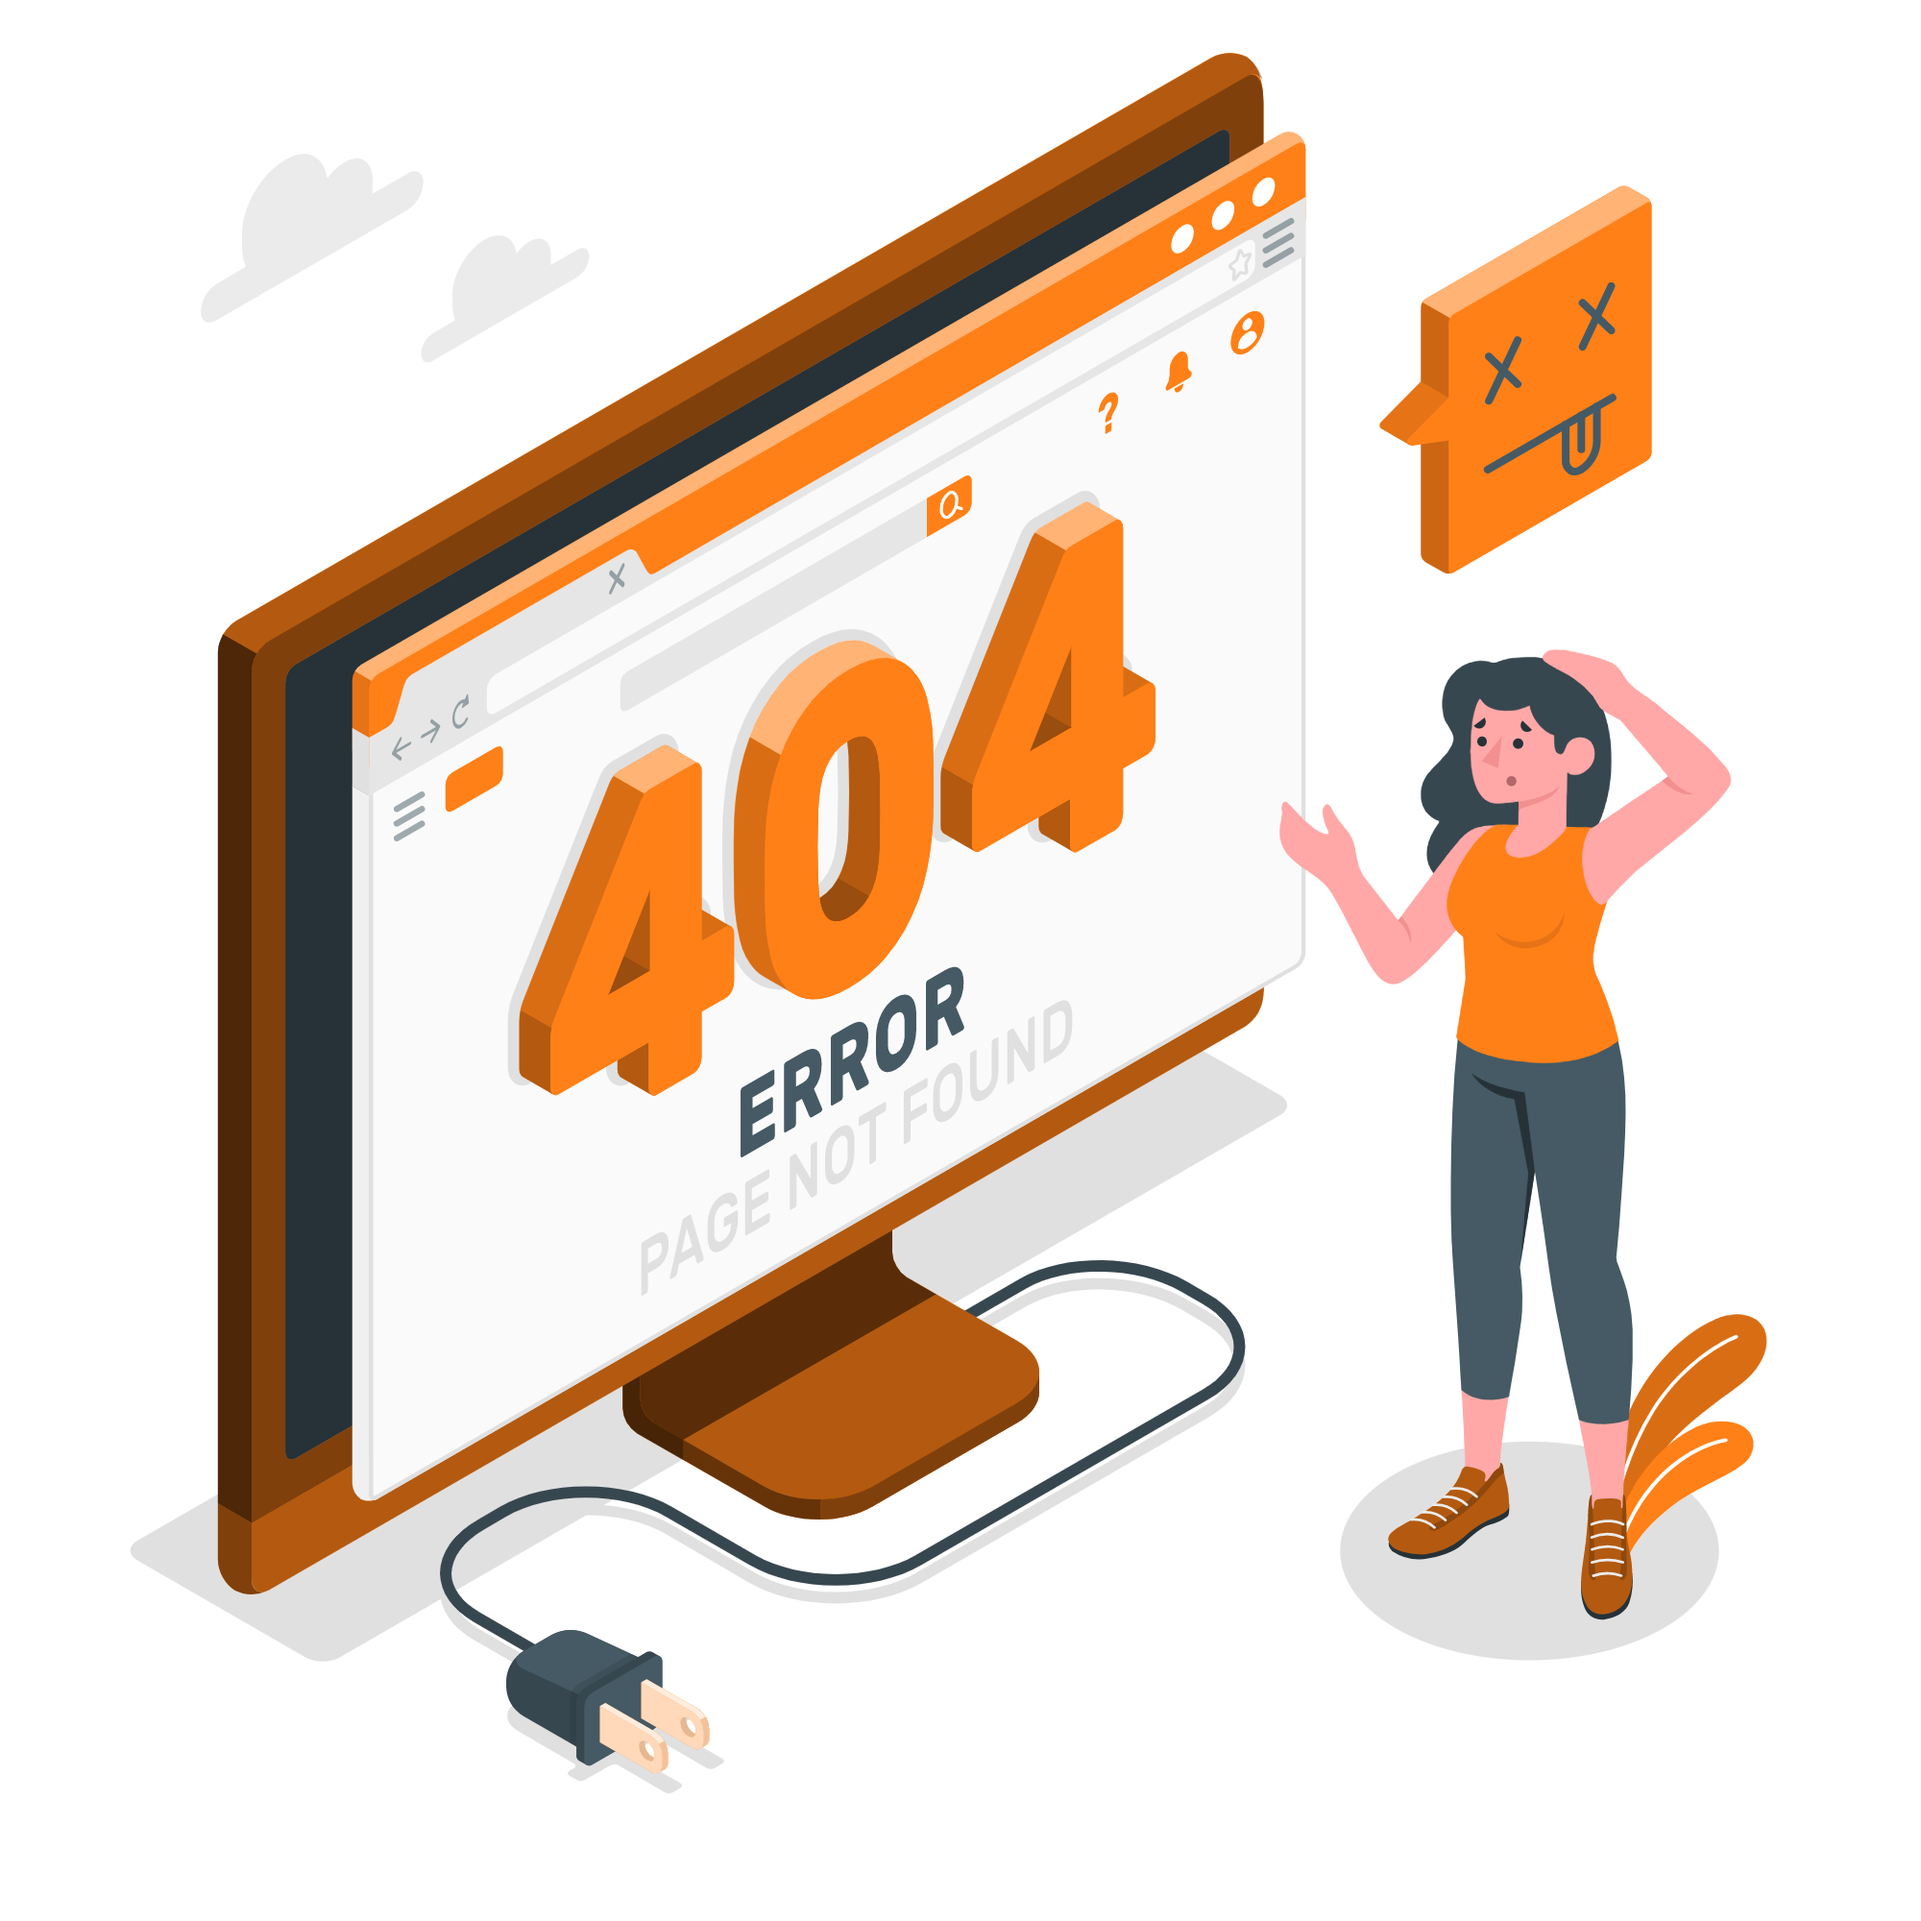
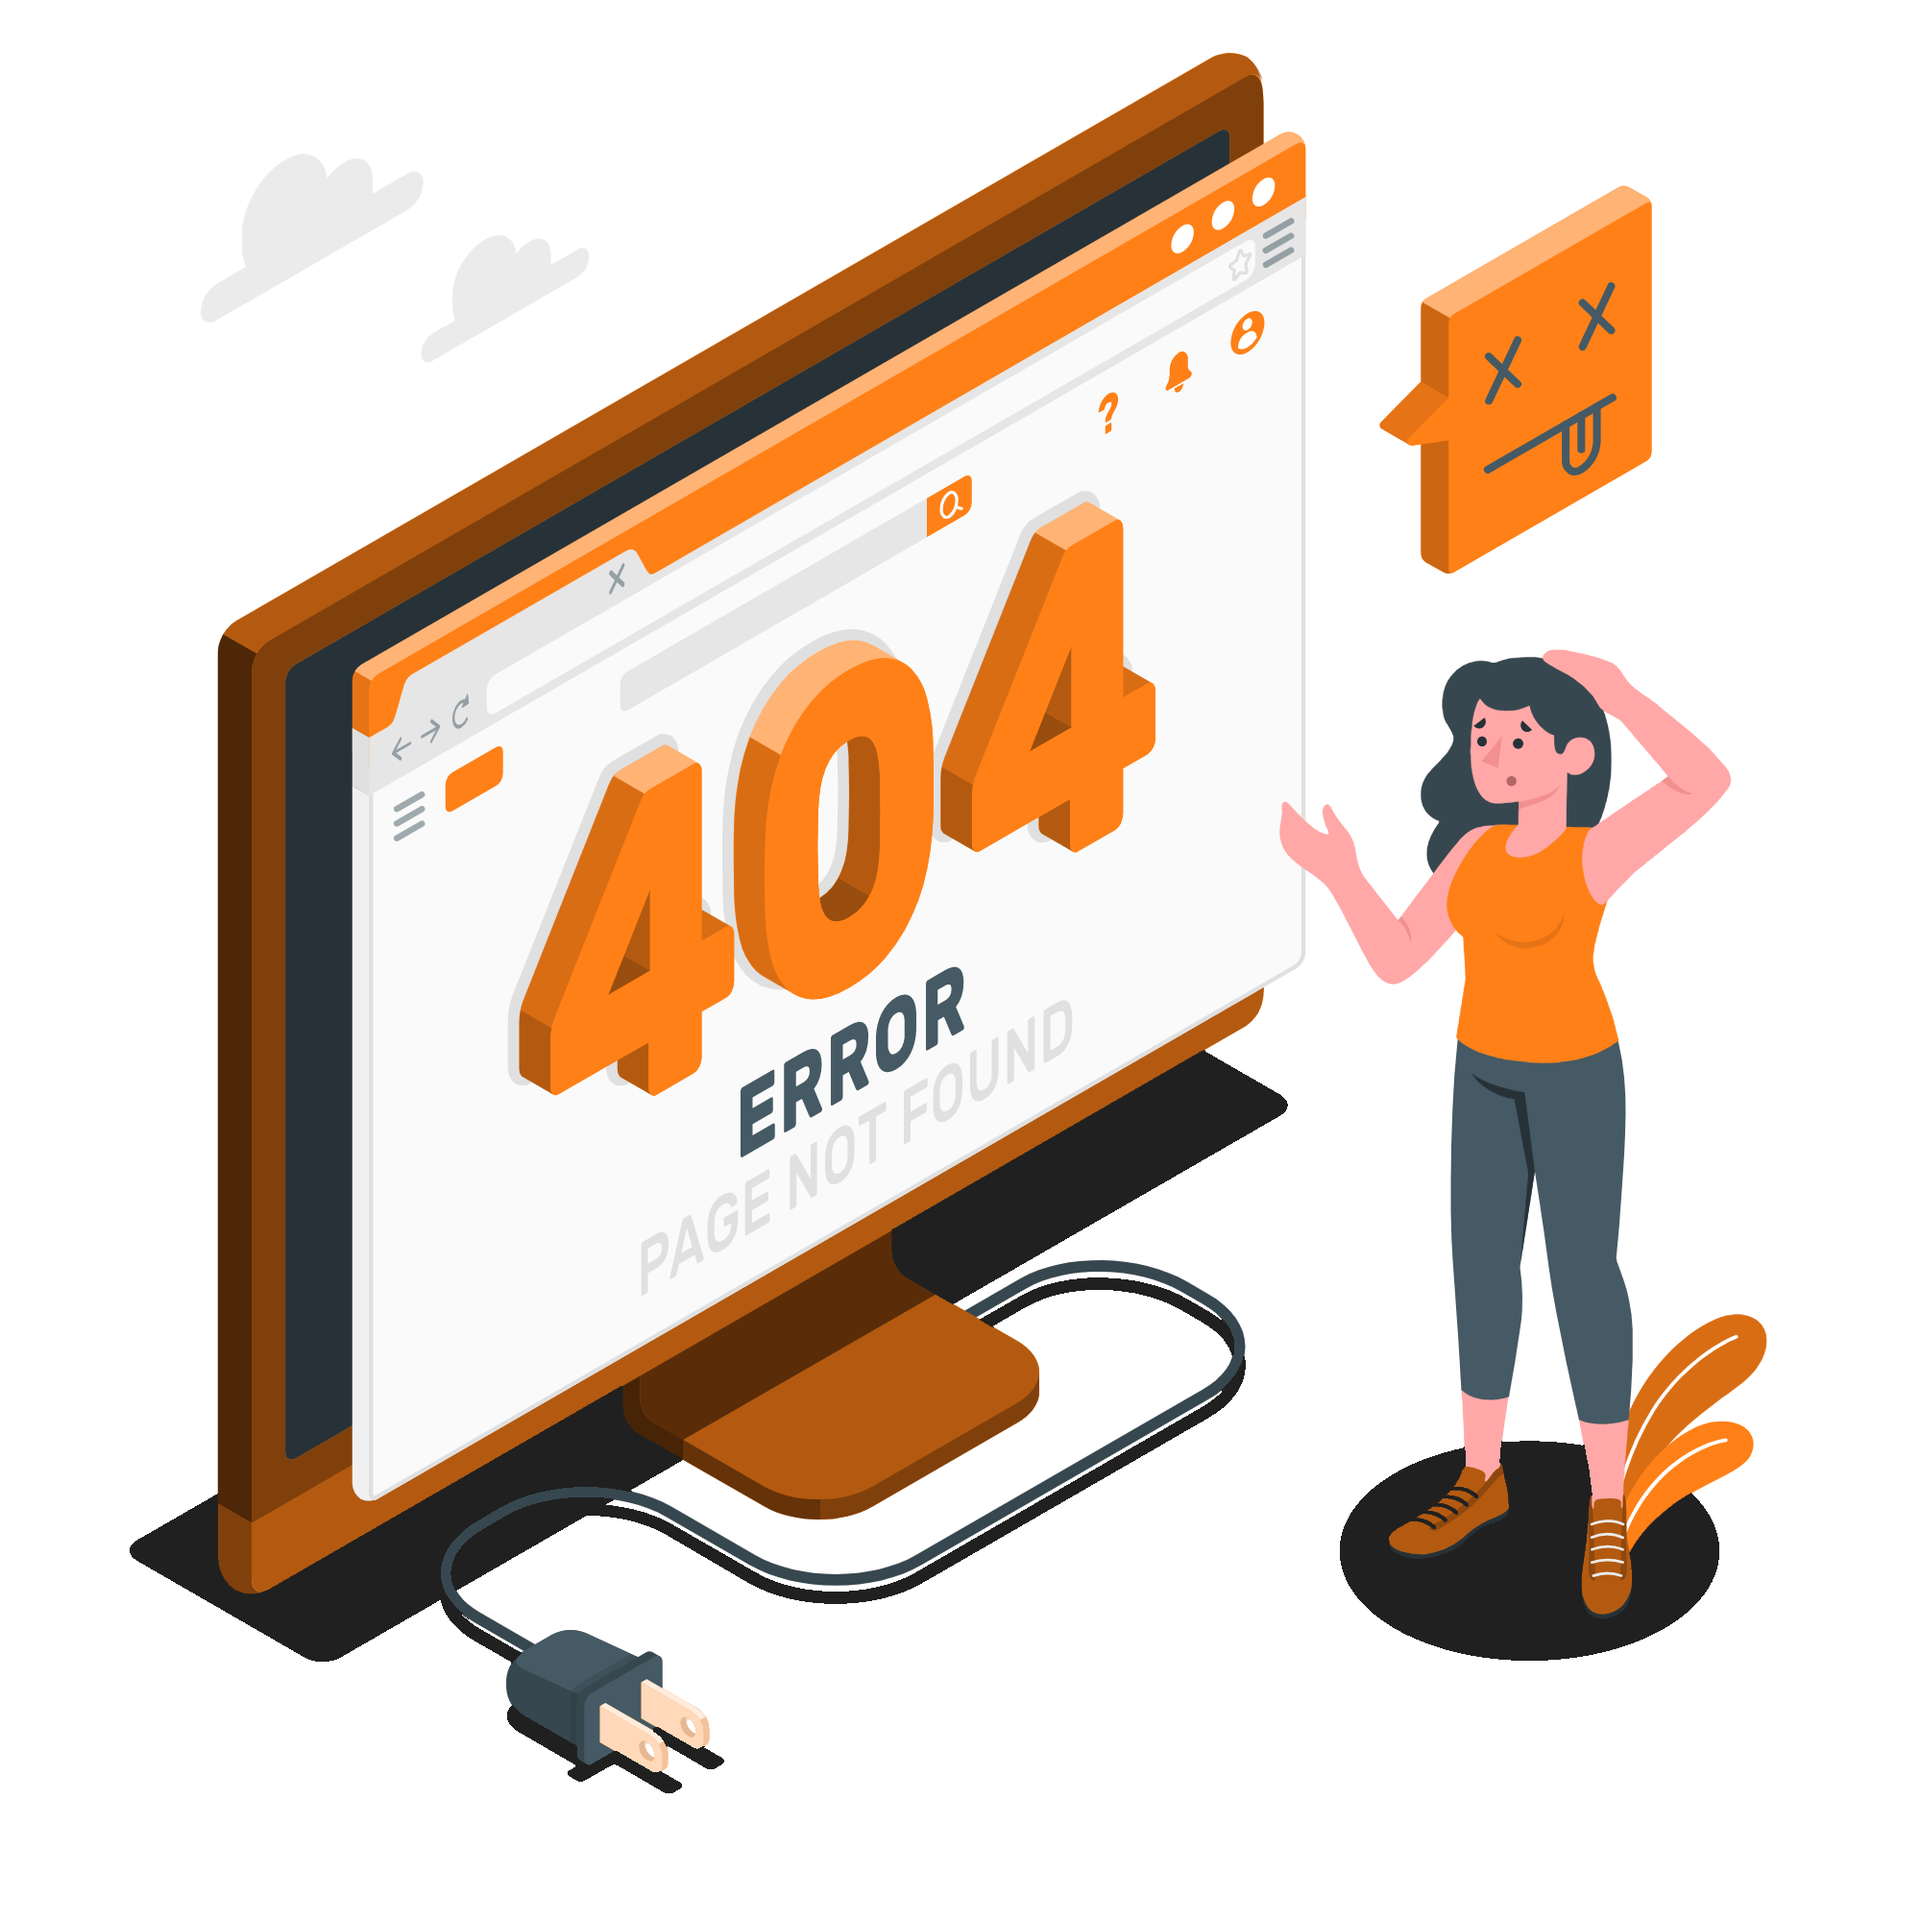
ajusta cor

diff --git a/css/custom.css b/css/custom.css
@@ -14,12 +14,12 @@
 
   /* TROCA COR */
   .navbarScroll{
-    background-color: var(--black);
-    color: var(--black);
+    background-color: var(--dark-main);
+    color: var(--dark-main);
   }
   
   .navigation .navbar-dark .navbar-nav .nav-item .nav-link, .navigation .navbar-dark .navbar-nav .item .nav-link {
-    color: white;
+    color: var(--white);
     font-size: 18px;
     line-height: 30px;
     padding: 30px 15px;
@@ -53,7 +53,6 @@
   @media (max-width: 991px) {
     .navigation {
       box-shadow: 0 4px 10px 0 rgba(0, 0, 0, 0.06);
-      background: var(--black);
     }
     .navigation .navbar-dark .navbar-nav .nav-item .nav-link, .item  {
       color: var(--white);
@@ -104,16 +103,17 @@
   /*=================================================================
   Footer section
 ==================================================================*/
-.top-footer {
-  background-color: var(--black);
-  border-top: 1px solid var(--black);
-  padding: 100px 0 80px;
+/* ////////////////////////////////////////////////////////////////////////////////////////////////////ALTERAR DEPOIS BOX SHADOW */
+.top-footer { 
+  background-color: var(--dark-main);
+  border-top: 1px solid var(--black); 
+  padding: 70px 0 50px;
 }
 
 .top-footer h3 {
   font-size: 16px;
   line-height: 1.5;
-  color: #fff;
+  color: var(--white);
   font-weight: 400;
   text-transform: uppercase;
   letter-spacing: 1px;
@@ -123,7 +123,6 @@
 .top-footer p {
   font-size: 13px;
   line-height: 30px;
-  color: #bdbdbd;
   font-weight: 300;
   letter-spacing: 1px;
   padding-right: 20px;
@@ -132,7 +131,7 @@
 .top-footer li a {
   font-size: 13px;
   line-height: 30px;
-  color: #bdbdbd;
+  color: var(--light-gray);
   font-weight: 300;
   letter-spacing: 1px;
   text-transform: capitalize;
@@ -144,44 +143,6 @@
 
 .top-footer li a:hover {
   color: var(--main-color);
-}
-
-.footer-bottom {
-  text-align: center;
-  background-color: #1b1b1b;
-  border-top: 1px solid #2c2c2c;
-  padding: 30px 0;
-}
-
-.footer-bottom h5 {
-  font-size: 12px;
-  line-height: 1;
-  color: #888888;
-  font-weight: 400;
-  text-transform: uppercase;
-  letter-spacing: 2px;
-  margin-top: 7px;
-  margin-bottom: 3px;
-}
-
-.footer-bottom h6 {
-  font-size: 11px;
-  line-height: 15px;
-  color: #888888;
-  font-weight: 400;
-  text-transform: capitalize;
-  letter-spacing: 2px;
-  margin-bottom: 0;
-}
-
-.page-404 {
-  display: flex;
-  align-items: center;
-
-}
-
-.page-404 h1 {
-  font-size: 4em;
 }
 
 /*============================================================
@@ -523,7 +484,7 @@
 }
 
 .main-btn{
-  background-color: var(--dark-gray);
+  background-color: var(--dark-main);
   color: var(--white);
   text-transform: uppercase;
   font-weight: bold;
@@ -569,9 +530,6 @@
    //Team section
 ==================================================================*/
 
-
-
-
 /*LOGIN*/
 .fundo  {
   background-color: white;
@@ -586,7 +544,7 @@
       0px 14.6px 79.9px rgba(0, 0, 0, 0.062),
       0px 22.5px 123.2px rgba(0, 0, 0, 0.071),
       0px 40px 219px rgba(0, 0, 0, 0.09);
-      color: black; 
+      color: var(--black); 
       border-radius: 20px;
 }
 
@@ -597,7 +555,7 @@
   height: 60px;
   padding: 10px 20px;
   border: none;
-  border-bottom: 2px solid var(--dark-gray);
+  border-bottom: 2px solid var(--dark-main);
   transition: .5s;
   width: 85%;
 }
@@ -605,7 +563,7 @@
   border: none;
   border-radius: 30px;
   color: var(--black);
-  background-color: white;
+  background-color: var(--white);
 }
 .img-login{
   background: hsla(19, 96%, 49%, 1);
@@ -625,7 +583,7 @@
 /* 404 */
 
 .btn-erro{
-  background-color: var(--dark-gray);
+  background-color: var(--dark-main);
   color: var(--white);
   text-decoration: none;
   text-transform: uppercase;
@@ -643,5 +601,53 @@
   background-color: rgba(0, 0, 0, 0.7);
 }
 
+.error{
+  padding-top: 6vh;
+}
+
+.page-404 {
+  display: flex;
+  align-items: center;
+
+}
+
+.page-404 h1 {
+  font-size: 4em;
+}
 
 /* //404 */
+
+/* INICIO CARDS */
+
+.icon {
+  width: 50px;
+  height: 50px;
+  background-color: #eee;
+  border-radius: 15px;
+  display: flex;
+  align-items: center;
+  justify-content: center;
+  font-size: 39px
+}
+
+.badge span {
+  width: 60px;
+  height: 25px;
+  padding-bottom: 3px;
+  border-radius: 5px;
+  display: flex;
+  color: var(--main-color);
+  justify-content: center;
+  align-items: center
+}
+
+.progress div {
+  background-color: var(--main-color)
+}
+
+.text1 {
+  font-size: 14px;
+  font-weight: 600
+}
+
+/* //INICIO CARDS */

diff --git a/css/global.css b/css/global.css
@@ -1,17 +1,19 @@
 :root {
     --main-color:#ff6600;
-    --white:#ffff;
-    --light-gray:#f6f4f4;
-    --dark-gray:#1f1f1f;
-    --black:#000000;
+    --white:#fff;
+    --light-gray: #bdbdbd;
+    --gray:#212225;
+    --dark-main:#121212;
+    --black:#000;
+  
   }
 
   body {
-    background-color: #181818b0 !important; 
+    background-color: var(--dark-main) !important; 
     }
 
     h1, h2, h3, h4, h5, h6, p, small{
-      color: white !important;
+      color: var(--white) !important;
     }
   
     ::selection{
@@ -24,6 +26,6 @@
     }
 
     .login-text{
-      color: var(--dark-gray) !important;
+      color: var(--dark-main) !important;
     }
   

diff --git a/inicio.php b/inicio.php
@@ -1,0 +1,59 @@
+<div class="container mt-5 mb-3">
+    <div class="row">
+
+        <div class="col-md-4">
+            <div class="card p-3 mb-2">
+                <div class="d-flex justify-content-between">
+                    <div class="d-flex flex-row align-items-center">
+                        <div class="icon"> <i class="bx bxl-mailchimp"></i> </div>
+                        <div class="ms-2 c-details">
+                        </div>
+                    </div>
+                </div>
+                <div class="mt-5">
+                    <p class="heading login-text">Lorem ipsum dolor sit amet, consectetur adipisicing elit. Recusandae rerum excepturi dignissimos unde facilis asperiores delectus mollitia, quisquam soluta reiciendis labore suscipit omnis quia aperiam eveniet? Explicabo reprehenderit similique numquam.</p>
+                    <div class="mt-5">
+                        <a class="mt-3" href="#"> <span class="text1 login-text">Saiba mais</span></a>
+                    </div>
+                </div>
+            </div>
+        </div>
+
+        <div class="col-md-4">
+            <div class="card p-3 mb-2">
+                <div class="d-flex justify-content-between">
+                    <div class="d-flex flex-row align-items-center">
+                        <div class="icon"> <i class="bx bxl-dribbble"></i> </div>
+                        <div class="ms-2 c-details">
+                        </div>
+                    </div>
+                </div>
+                <div class="mt-5">
+                    <p class="heading login-text">Lorem ipsum dolor sit amet consectetur, adipisicing elit. Quis, laudantium incidunt. In veritatis amet, temporibus dolorum quidem eaque nemo sed modi architecto ad deleniti maiores necessitatibus, sit voluptate. Nulla, laboriosam.</p>
+                    <div class="mt-5">
+                        <a class="mt-3" href="#"> <span class="text1 login-text">Saiba mais</span> </a>
+                    </div>
+                </div>
+            </div>
+        </div>
+
+        <div class="col-md-4">
+            <div class="card p-3 mb-2">
+                <div class="d-flex justify-content-between">
+                    <div class="d-flex flex-row align-items-center">
+                        <div class="icon"> <i class="bx bxl-reddit"></i> </div>
+                        <div class="ms-2 c-details">
+                        </div>
+                    </div>
+                </div>
+                <div class="mt-5">
+                    <p class="heading login-text">Lorem ipsum dolor sit amet consectetur, adipisicing elit. Doloribus, eius? Aliquam sapiente perspiciatis sed, corrupti quas voluptatibus similique esse cupiditate dolorum beatae possimus eligendi accusantium ipsam optio, deserunt, excepturi ullam!</p>
+                    <div class="mt-5">
+                        <a class="mt-3" href="#"> <span class="text1 login-text">Saiba mais</span> </a>
+                    </div>
+                </div>
+            </div>
+        </div>
+
+    </div>
+</div>

diff --git a/404.php b/404.php
@@ -1,7 +1,7 @@
 <link rel="stylesheet" href="css/main.css">
 
-	<div class="container mt-4">
-		<div class="row">
+	<div class="container error mt-5">
+		<div class="row mt-5">
 			<div class="col-lg-6 col-md-12 mt-4 mb-4 align-self-center">
 				<section class="page-404 section text-center">
 					<div class="row">

diff --git a/header.php b/header.php
@@ -4,7 +4,7 @@ Fixed Navigation
 ==================================== -->
   <header class="navigation fixed-top" style="background-color: <?php 
   if ( $page == 'login' ){
-    echo 'black';
+    echo 'var(--dark-main)';
   }
   else{
     echo 'transparent';

diff --git a/footer.php b/footer.php
@@ -1,6 +1,5 @@
 <link rel="stylesheet" href="css/main.css">
 
-
 <footer id="footer" class="bg-one mt-4">
   <div class="top-footer ">
     <div class="container">
